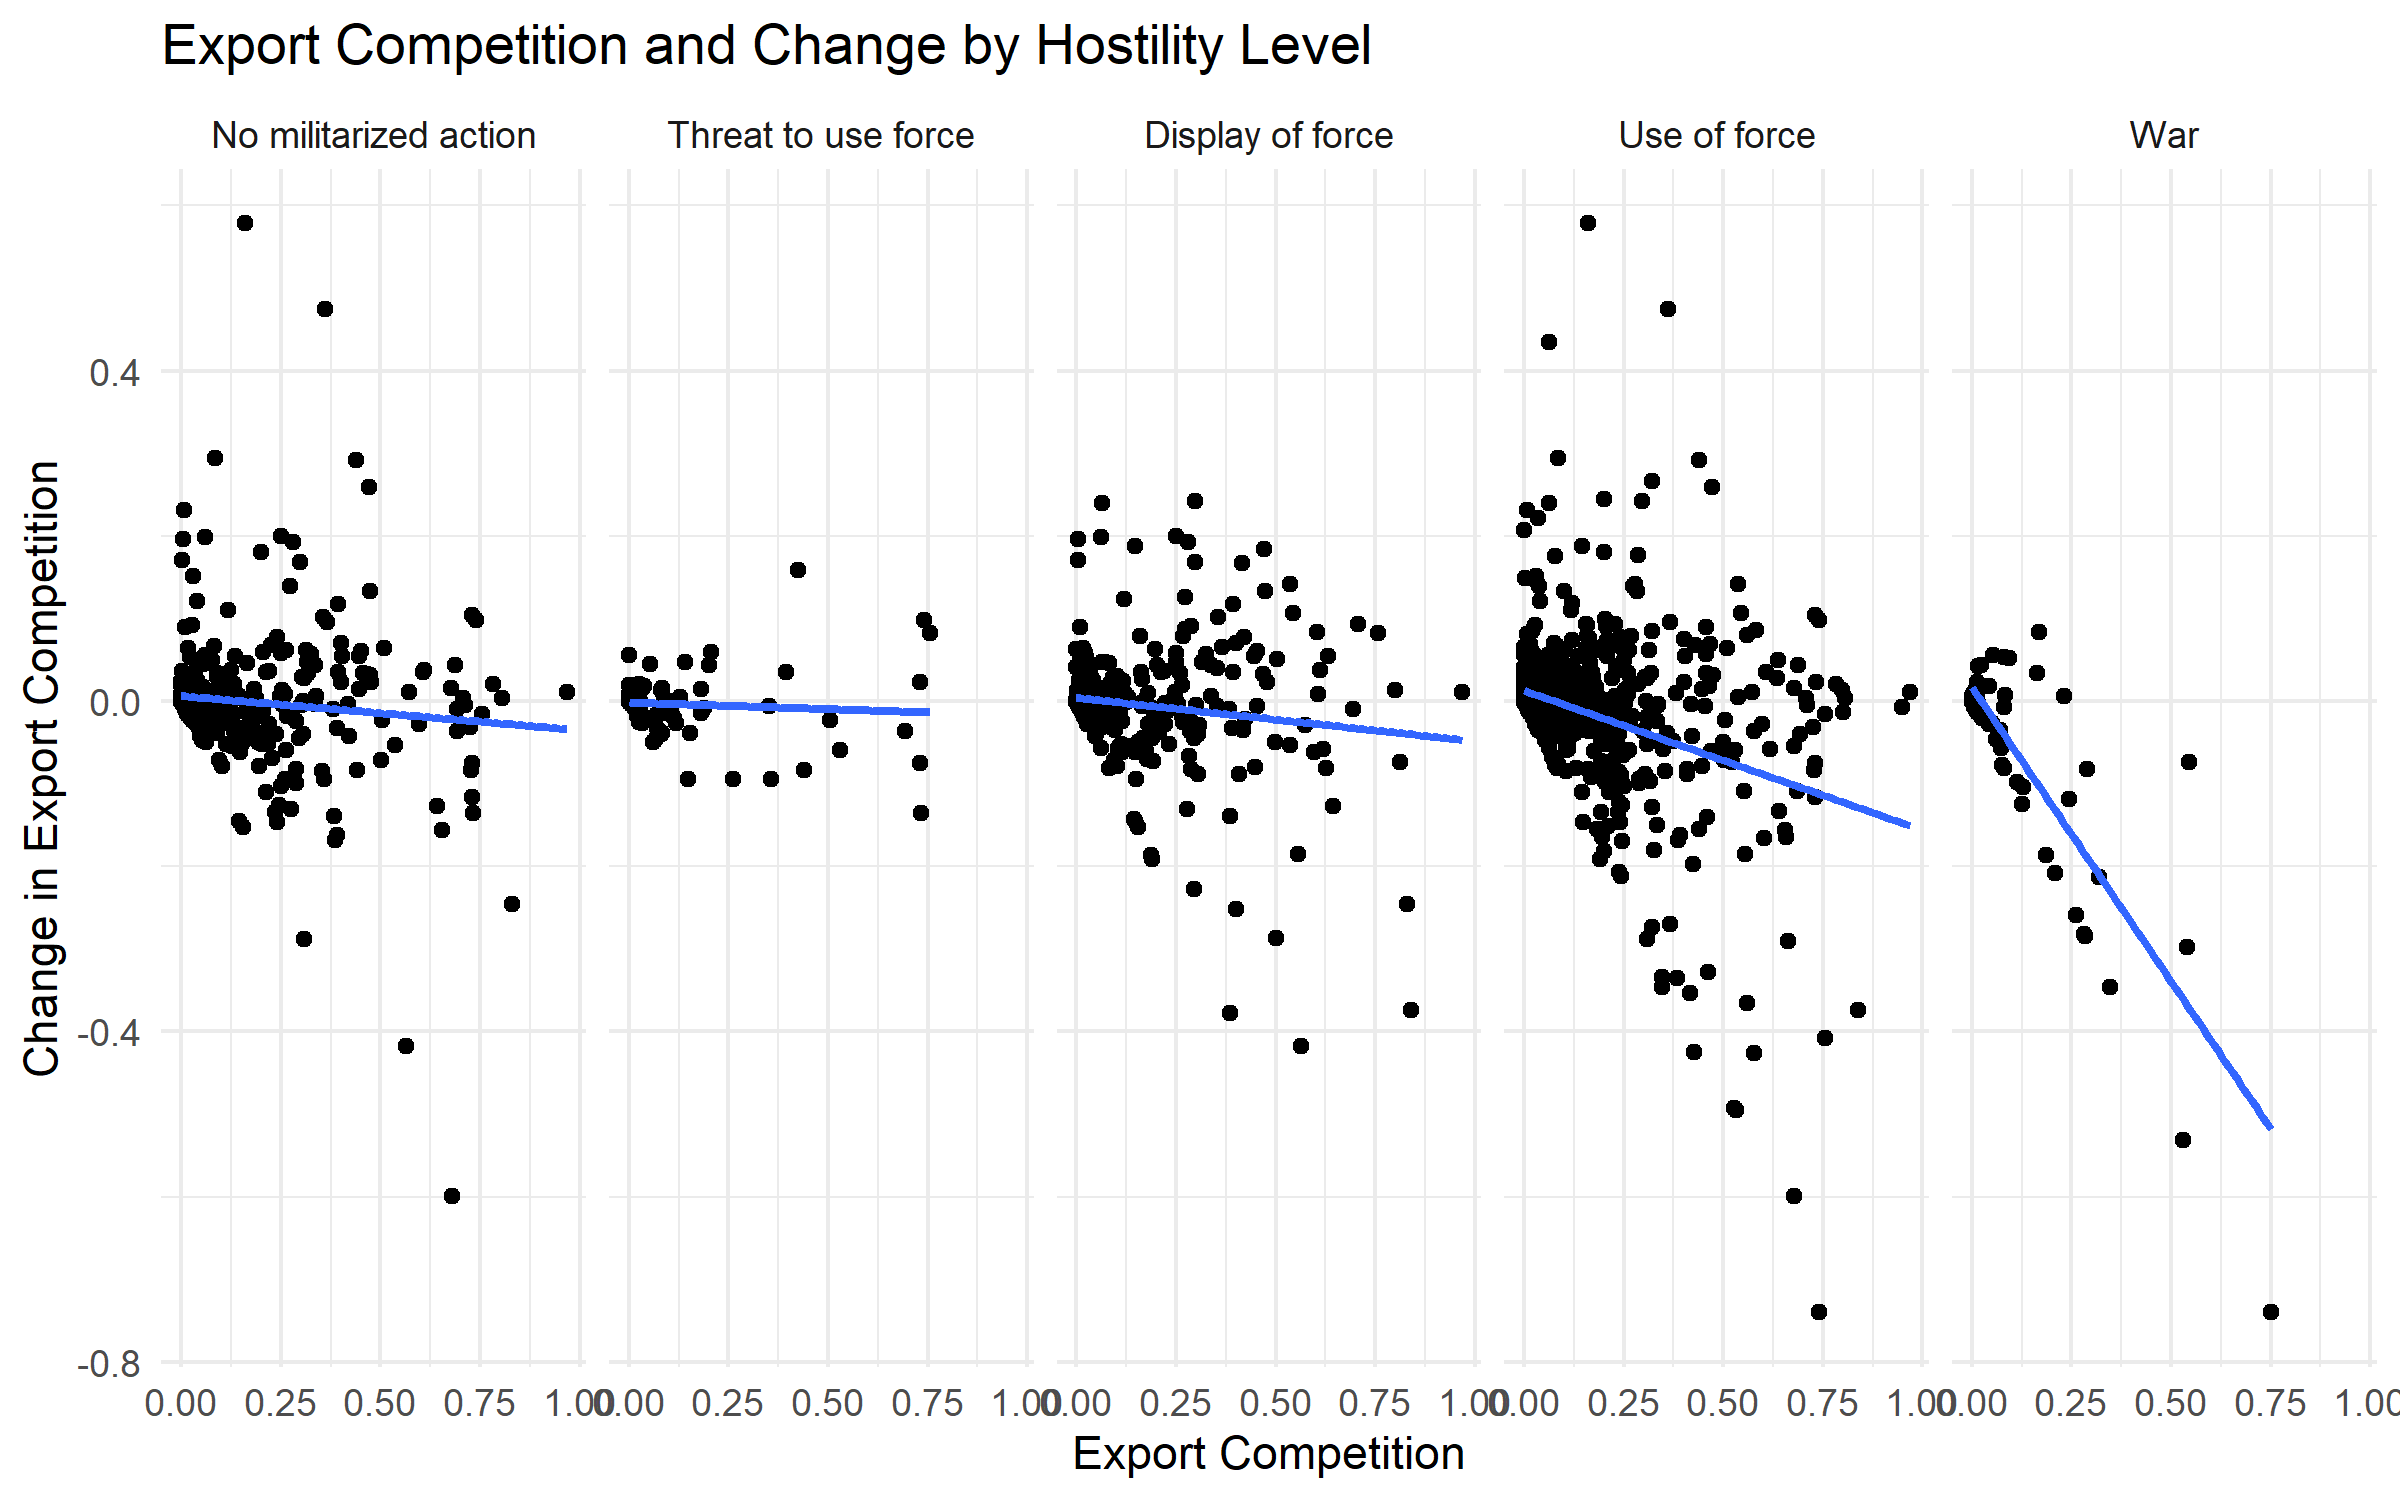
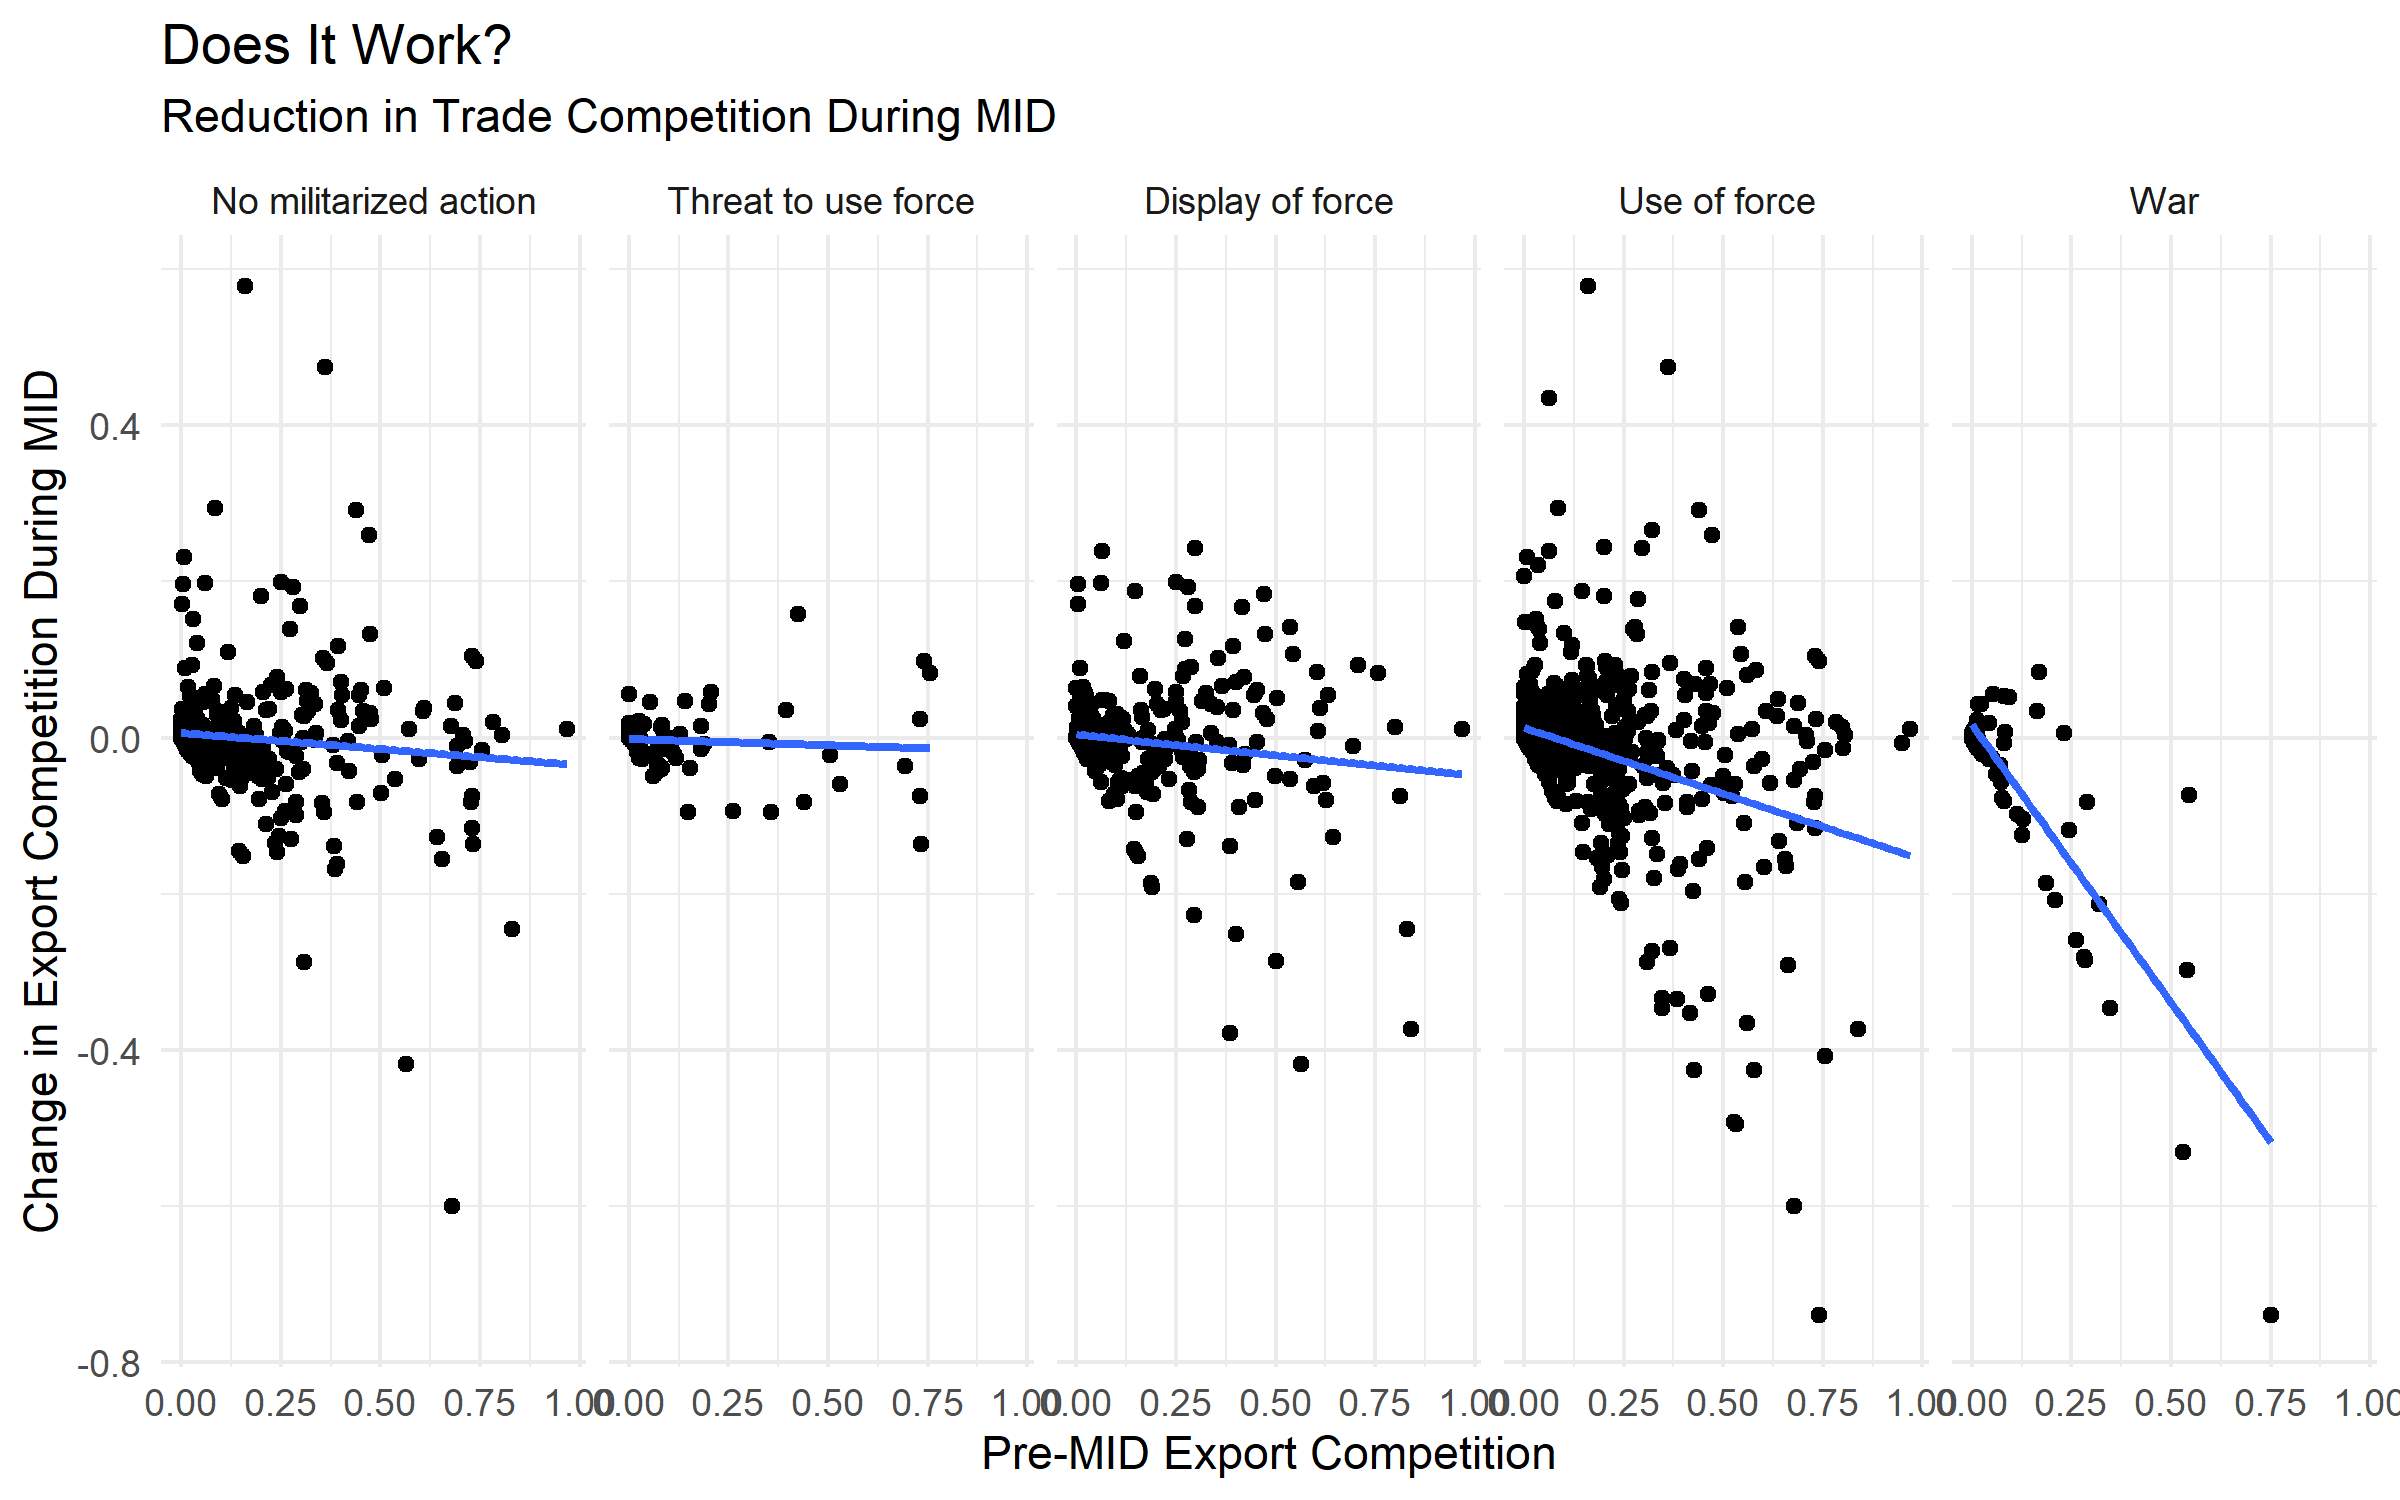
Update README.md
Further clarify visualizations and explanations

diff --git a/README.md b/README.md
@@ -3,7 +3,7 @@
 
 2) Do countries which import similar goods fight more?
 
-3) Do losers stop dealing in the same goods as victors, once the war is over?
+3) Do losers stop dealing in the same goods as victors once the war is over?
 
 4) Do markets in certain goods cause more fights than others?
 
@@ -11,21 +11,31 @@
 
 Chatagnier and Kavakli 2017 show that countries which export similar goods fight more. They do not examine the same effects of imports, competition over specific customers, or whether it worked.
 
-As used below, "similarity" is the Pearson's correlation between dollar values of all goods exported from a dyad-year. Two countries who export none of the same goods within the same year will have an export similarity of zero. Two countries who export all of the same goods in the same proportions  within the same year (regardless of economy size) will have an export similarity score of 1. The highest scores tend to be between oil exporting countries.
+As used below, "similarity" is the Pearson's correlation between dollar values of all goods exported from a dyad-year. Two countries who export none of the same goods within the same year will have an export similarity of zero. Two countries who export all of the same goods in the same proportions  within the same year (regardless of economy size) will have an export similarity score of 1. The highest scores tend to be between oil exporting countries. 
+
+The terms "similarity" and "competition" are used interchangeably below. This is because I assume that firms which sell similar goods are in market competition for resource inputs and customers.
 
 # Results so far . . .
 
+In pursuit of questions 1 and 2:
+
 ![](https://github.com/Chris-FSU/Trade.War/blob/master/fig/ExpImpSim.png)
 
-Among dyads engaged in a MID (red line), export similarity and import similarity are both higher than the averages among non-MID dyads (black line).
+Among dyads engaged in a MID (red line), export similarity (left) and import similarity (right) are both higher than the averages among non-MID dyads (black line). The chart to the left reaffirms the findings of Chatagnier and Kavakli and answers question 1. 
 
-So far, the response to the first two questions is that countries who fight have more similar exports and imports than countries who do not fight. This suggests, but does not prove, that countries who export and import similar goods fight more.
+The chart to the right answers question 2. In the time period covered, import similarity is much higher for dyads engaged in MIDs than for peaceful dyads.
+
+In pursuit of question 3:
+
+To examine whether these types of MIDs accomplish their goals, the most relevant cases are those which began with the most export competition and had higher intensity conflicts. If war works as a method of removing market competitors, we should see a reduction in export similarity especially in those cases.
 
 ![](https://github.com/Chris-FSU/Trade.War/blob/master/fig/ExpChangeHost1.png)
 
-The Y axis is antebellum export competition minus postbellum export competition. Lower Y values indicate that trade similarity reduced over the duration of the MID. The x axis is antebellum export competition. Higher X values indicate more similar exports. If states with more similar exports are fighting to remove each other from the market (and it works) we should expect downward sloping regression lines. 
+The Y axis is pre-MID export competition minus post-MID export competition. Lower Y values indicate that export similarity reduced over the duration of the MID. The X axis is pre-MID export competition. Higher X values indicate more similar exports. If states with more similar exports are fighting to remove each other from the market (as Chatagnier and Kavakli claim) and it works (as I claim), then we should expect downward sloping regression lines. We do, in fact, see that, but only as hostility increases.
 
-As a matter of fact, the slope becomes more negative and more significant as hostility increases. This indicates that higher hostility MIDs between market competitors succeed in removing competitors from the market.
+In a regression of the change of export competition on both hostility and pre-MID export competition, the interaction was statistically significant and negative. The coefficient was -.064. Holding hosility equal, higher levels of pre-MID export competition yield higher levels of export similarity. This is unexpected but lends credibility to the interaction effect, which occurs in the opposite direction. Holding export competition equal, hostility level does not have a significant estimated effect on export competition reduction. As the two increase together, they interact to reduce post-MID export similarity. In higher hostility MIDs, dyads with more similar pre-MID exports havea greater reduction in that export similarity by the end of the conflict.
+
+I have not differentiated between winners and losers. It seems likely that losers are the ones to back out of the market, but I need further analysis to confirm this.
 
 # Current State
 
